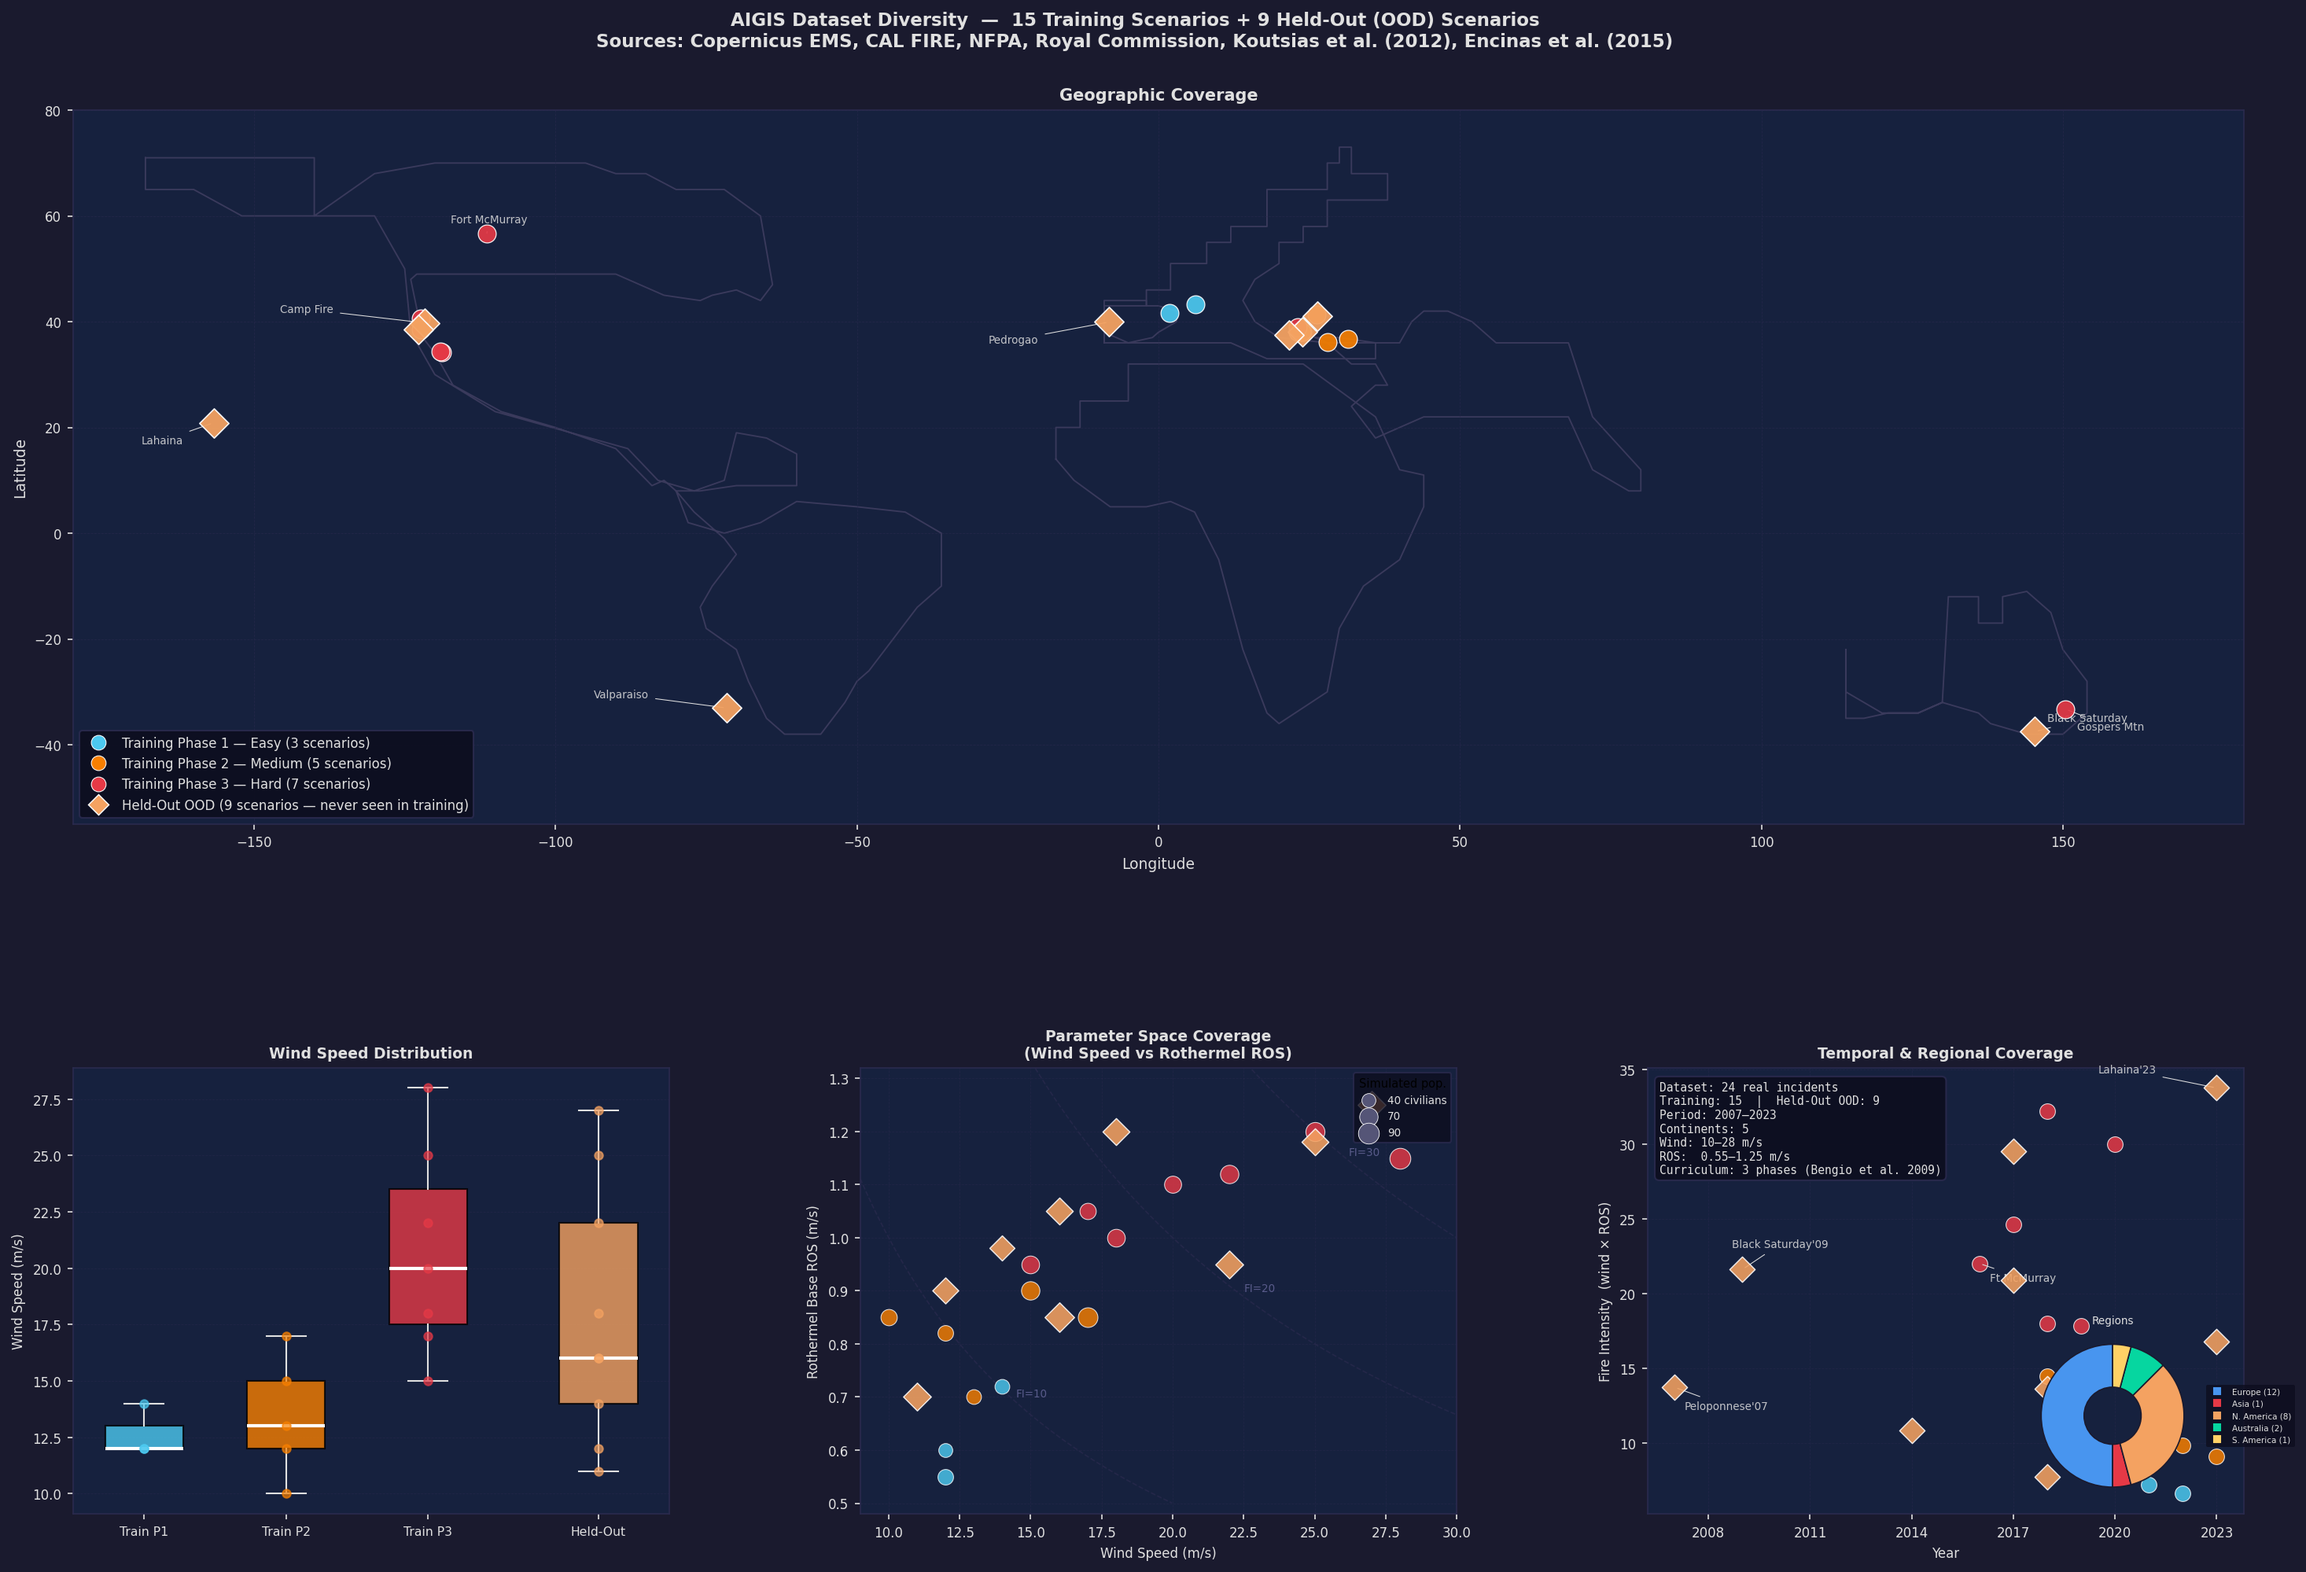
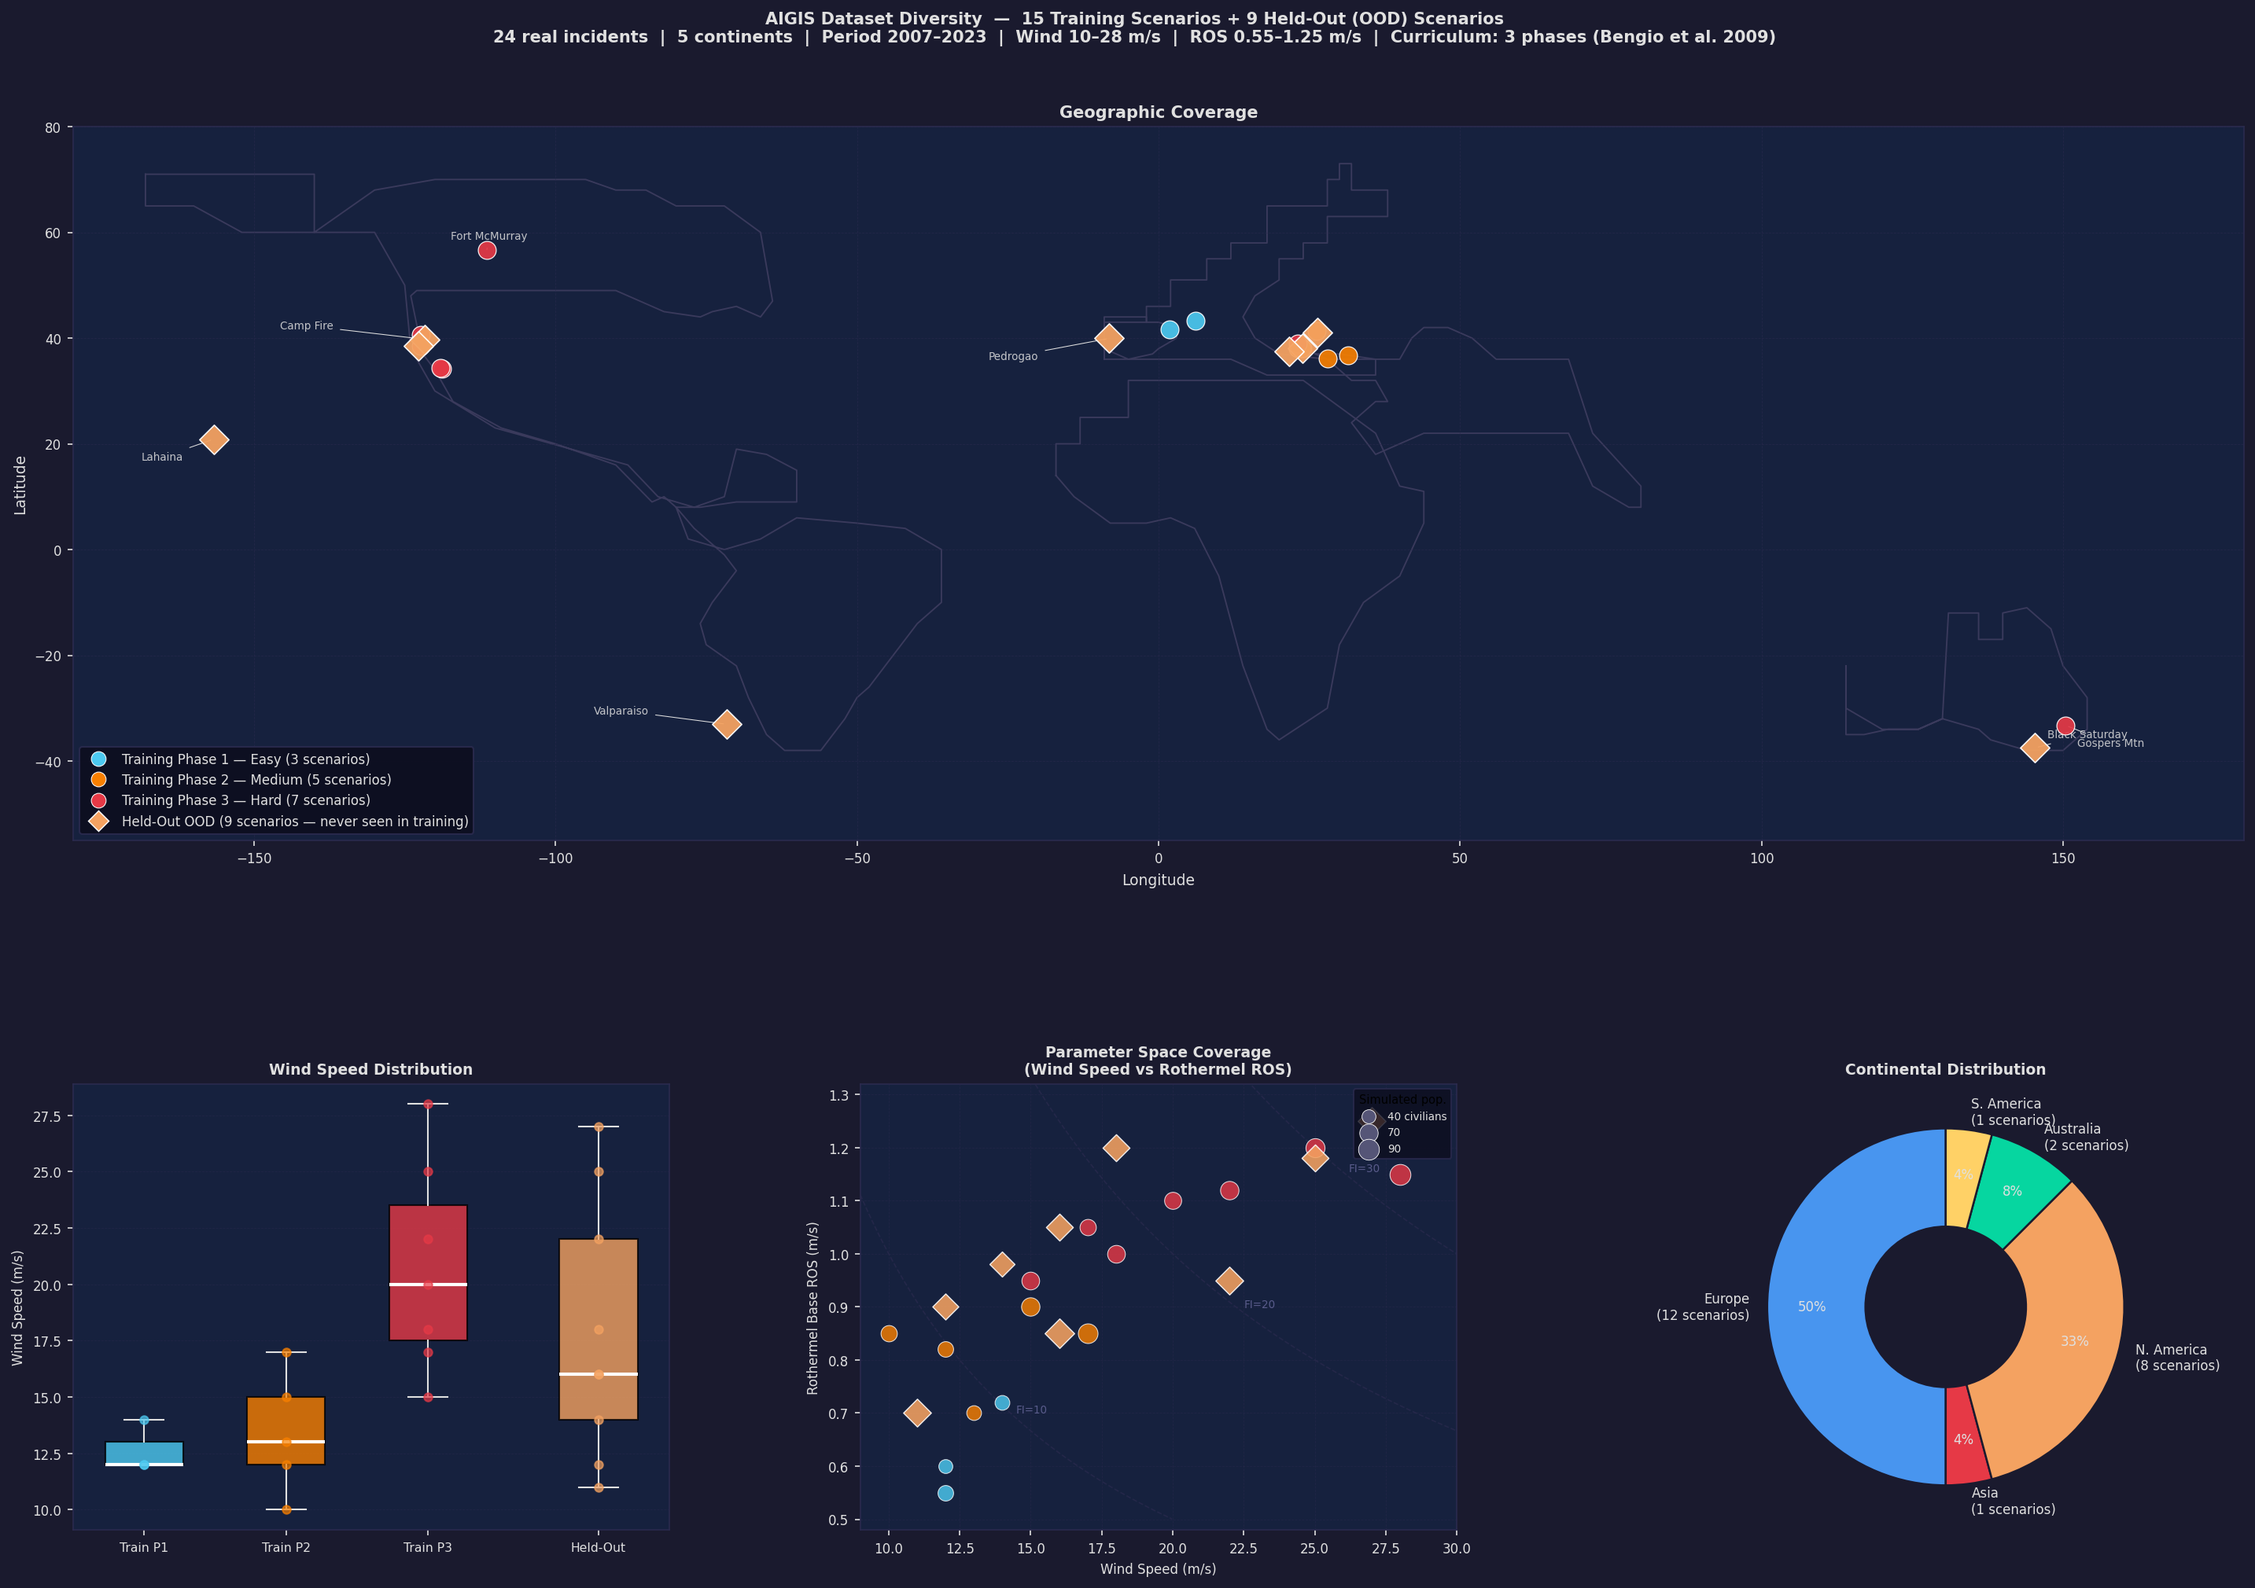
fix: replace cluttered temporal panel with clean continental pie chart

diff --git a/plot_dataset_diversity.py b/plot_dataset_diversity.py
@@ -192,11 +192,22 @@ def _world_outlines():
 # ---------------------------------------------------------------------------
 
 def plot_diversity(output_file: str = 'dataset_diversity.png') -> None:
+    n_train = len(TRAINING)
+    n_held  = len(HELD_OUT)
+    all_yrs = sorted({s['year'] for s in TRAINING + HELD_OUT})
+    n_cont  = len(set(s['continent'] for s in TRAINING + HELD_OUT))
+    wind_all = [s['wind'] for s in TRAINING + HELD_OUT]
+    ros_all  = [s['ros']  for s in TRAINING + HELD_OUT]
+
     fig = plt.figure(figsize=(20, 14), facecolor=BG)
     fig.suptitle(
         'AIGIS Dataset Diversity  —  15 Training Scenarios + 9 Held-Out (OOD) Scenarios\n'
-        'Sources: Copernicus EMS, CAL FIRE, NFPA, Royal Commission, Koutsias et al. (2012), Encinas et al. (2015)',
-        color=FG, fontsize=11, fontweight='bold', y=0.98,
+        f'{n_train + n_held} real incidents  |  {n_cont} continents  |  '
+        f'Period {min(all_yrs)}–{max(all_yrs)}  |  '
+        f'Wind {min(wind_all):.0f}–{max(wind_all):.0f} m/s  |  '
+        f'ROS {min(ros_all):.2f}–{max(ros_all):.2f} m/s  |  '
+        'Curriculum: 3 phases (Bengio et al. 2009)',
+        color=FG, fontsize=10, fontweight='bold', y=0.99,
     )
 
     gs = gridspec.GridSpec(
@@ -369,99 +380,31 @@ def plot_diversity(output_file: str = 'dataset_diversity.png') -> None:
                       fontsize=6.5, facecolor='#0d0d1e', labelcolor=FG,
                       edgecolor=GRID, loc='upper right')
 
-    # ── Panel 4: Temporal + Continental diversity ─────────────────────────────
+    # ── Panel 4: Continental distribution pie chart ───────────────────────────
+    from collections import Counter
     ax_info = fig.add_subplot(gs[1, 2])
     ax_info.set_facecolor(PANEL)
-    ax_info.tick_params(colors=FG, labelsize=8)
-    ax_info.set_title('Temporal & Regional Coverage', color=FG, fontsize=9,
+    ax_info.set_title('Continental Distribution', color=FG, fontsize=9,
                       fontweight='bold')
-    for sp in ax_info.spines.values():
-        sp.set_edgecolor(GRID)
+    ax_info.axis('off')
 
-    # Timeline scatter: year vs intensity
-    ax_info.set_xlabel('Year', color=FG, fontsize=8)
-    ax_info.set_ylabel('Fire Intensity  (wind × ROS)', color=FG, fontsize=8)
-    ax_info.grid(color=GRID, linestyle='--', linewidth=0.4, alpha=0.5)
-
-    for s in TRAINING:
-        c = PHASE_COLOURS[s['phase']]
-        intensity = s['wind'] * s['ros']
-        ax_info.scatter(s['year'], intensity, s=90, c=c, marker=TRAIN_MARKER,
-                        alpha=0.85, edgecolors='white', linewidths=0.5, zorder=3)
-
-    for s in HELD_OUT:
-        intensity = s['wind'] * s['ros']
-        ax_info.scatter(s['year'], intensity, s=120, c=HELD_COLOUR,
-                        marker=HELD_MARKER, alpha=0.88, edgecolors='white',
-                        linewidths=0.7, zorder=4)
-
-    # Annotate a few notable events
-    notable = {
-        'Black Saturday 2009': (-0.3, 1.5),
-        'Fort McMurray, AB': (0.3, -1.2),
-        'Lahaina 2023': (-3.5, 1.0),
-        'Peloponnese 2007': (0.3, -1.5),
-    }
-    all_scenarios = TRAINING + HELD_OUT
-    for s in all_scenarios:
-        if s['name'] in notable:
-            dx, dy = notable[s['name']]
-            intensity = s['wind'] * s['ros']
-            short = s['name'].split(',')[0].replace(' 20', "'").replace('Fort McMurray', 'Ft McMurray')
-            ax_info.annotate(short, xy=(s['year'], intensity),
-                             xytext=(s['year'] + dx, intensity + dy),
-                             fontsize=6.5, color=FG, alpha=0.85,
-                             arrowprops=dict(arrowstyle='-', color=FG, lw=0.5))
-
-    ax_info.tick_params(axis='both', labelcolor=FG)
-    ax_info.xaxis.set_major_locator(plt.MaxNLocator(integer=True, nbins=6))
-
-    # ── Continent summary inset ───────────────────────────────────────────────
-    from collections import Counter
     all_continents = [s['continent'] for s in TRAINING] + [s['continent'] for s in HELD_OUT]
     counts = Counter(all_continents)
     cont_labels = list(counts.keys())
     cont_vals   = [counts[k] for k in cont_labels]
     cont_cols   = [CONTINENT_COLOURS.get(k, '#888') for k in cont_labels]
+    wedge_labels = [f'{k}\n({counts[k]} scenarios)' for k in cont_labels]
 
-    # Pie inset — bottom-right corner, away from data clusters
-    ax_inset = ax_info.inset_axes([0.60, 0.02, 0.36, 0.40])
-    ax_inset.set_facecolor('#0d0d1e')
-    wedges, _ = ax_inset.pie(cont_vals, colors=cont_cols, startangle=90,
-                              wedgeprops=dict(width=0.6, edgecolor='#1a1a2e', linewidth=0.8))
-    ax_inset.set_title('Regions', color=FG, fontsize=6.5, pad=2)
-
-    # Continent legend to the right of the pie, inside the inset axes
-    for k, col in zip(cont_labels, cont_cols):
-        ax_inset.plot([], [], 's', color=col, markersize=4,
-                      label=f'{k} ({counts[k]})')
-    ax_inset.legend(fontsize=5.0, facecolor='#0d0d1e', labelcolor=FG,
-                    edgecolor='none', loc='center left',
-                    bbox_to_anchor=(1.0, 0.5), ncol=1)
-
-    # ── Dataset summary text box — top-left, clear of data ───────────────────
-    n_train = len(TRAINING)
-    n_held  = len(HELD_OUT)
-    all_yrs = sorted({s['year'] for s in TRAINING + HELD_OUT})
-    n_cont  = len(set(s['continent'] for s in TRAINING + HELD_OUT))
-    wind_all = [s['wind'] for s in TRAINING + HELD_OUT]
-    ros_all  = [s['ros']  for s in TRAINING + HELD_OUT]
-
-    summary = (
-        f"Dataset: {n_train + n_held} real incidents\n"
-        f"Training: {n_train}  |  Held-Out OOD: {n_held}\n"
-        f"Period: {min(all_yrs)}–{max(all_yrs)}\n"
-        f"Continents: {n_cont}\n"
-        f"Wind: {min(wind_all):.0f}–{max(wind_all):.0f} m/s\n"
-        f"ROS:  {min(ros_all):.2f}–{max(ros_all):.2f} m/s\n"
-        f"Curriculum: 3 phases (Bengio et al. 2009)"
+    ax_info.pie(
+        cont_vals,
+        labels=wedge_labels,
+        colors=cont_cols,
+        startangle=90,
+        wedgeprops=dict(width=0.55, edgecolor='#1a1a2e', linewidth=1.2),
+        textprops=dict(color=FG, fontsize=8),
+        autopct='%1.0f%%',
+        pctdistance=0.75,
     )
-    ax_info.text(0.02, 0.97, summary,
-                 transform=ax_info.transAxes,
-                 fontsize=7, color=FG, va='top', ha='left',
-                 bbox=dict(boxstyle='round,pad=0.4', facecolor='#0d0d1e',
-                           edgecolor=GRID, alpha=0.9),
-                 family='monospace')
 
     # ── Save ─────────────────────────────────────────────────────────────────
     fig.savefig(output_file, dpi=150, bbox_inches='tight', facecolor=BG)
